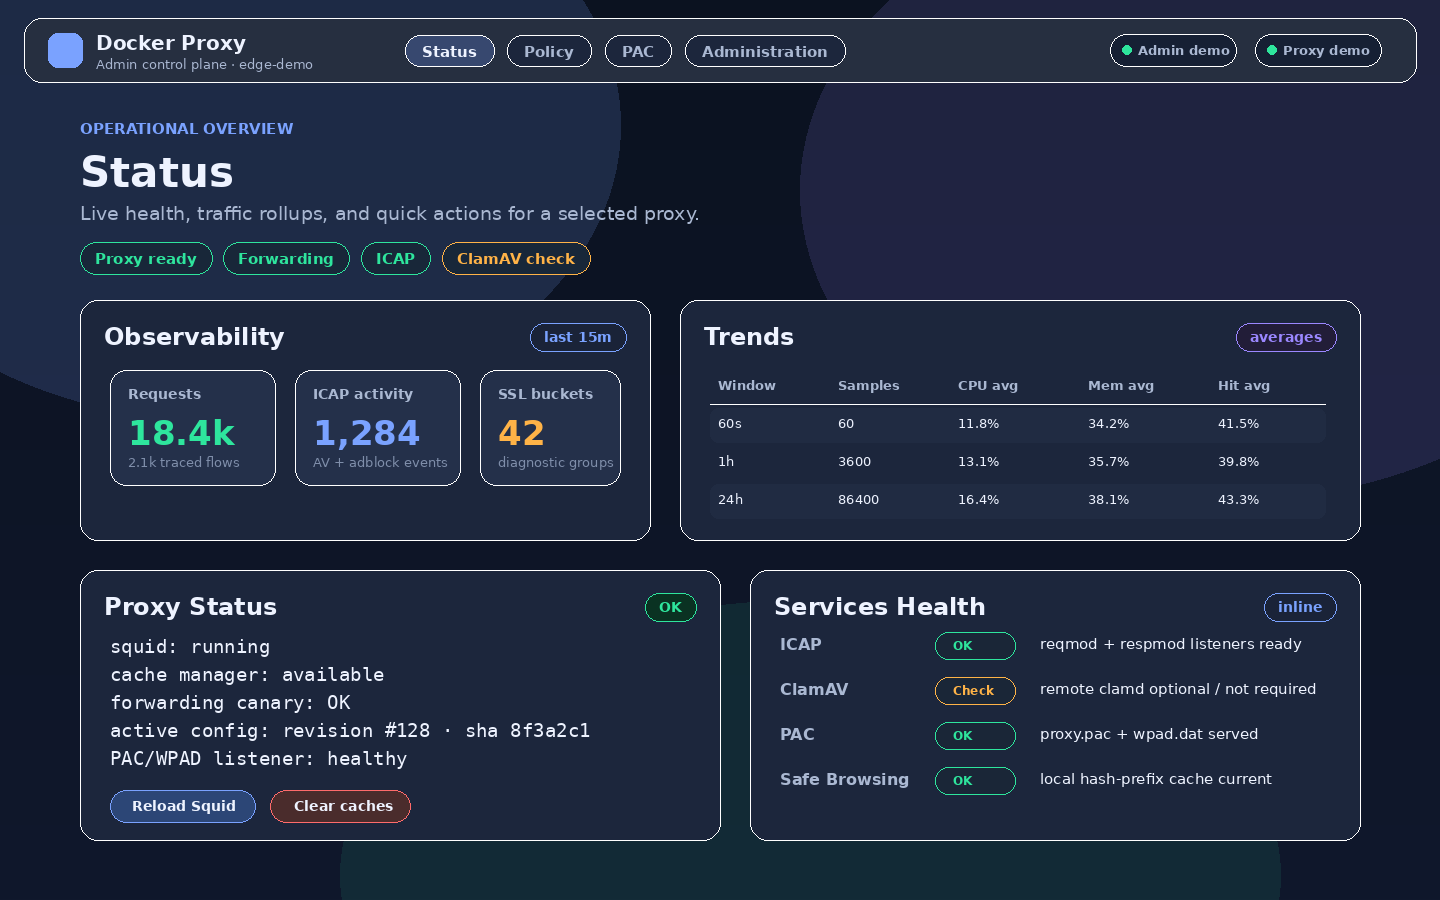
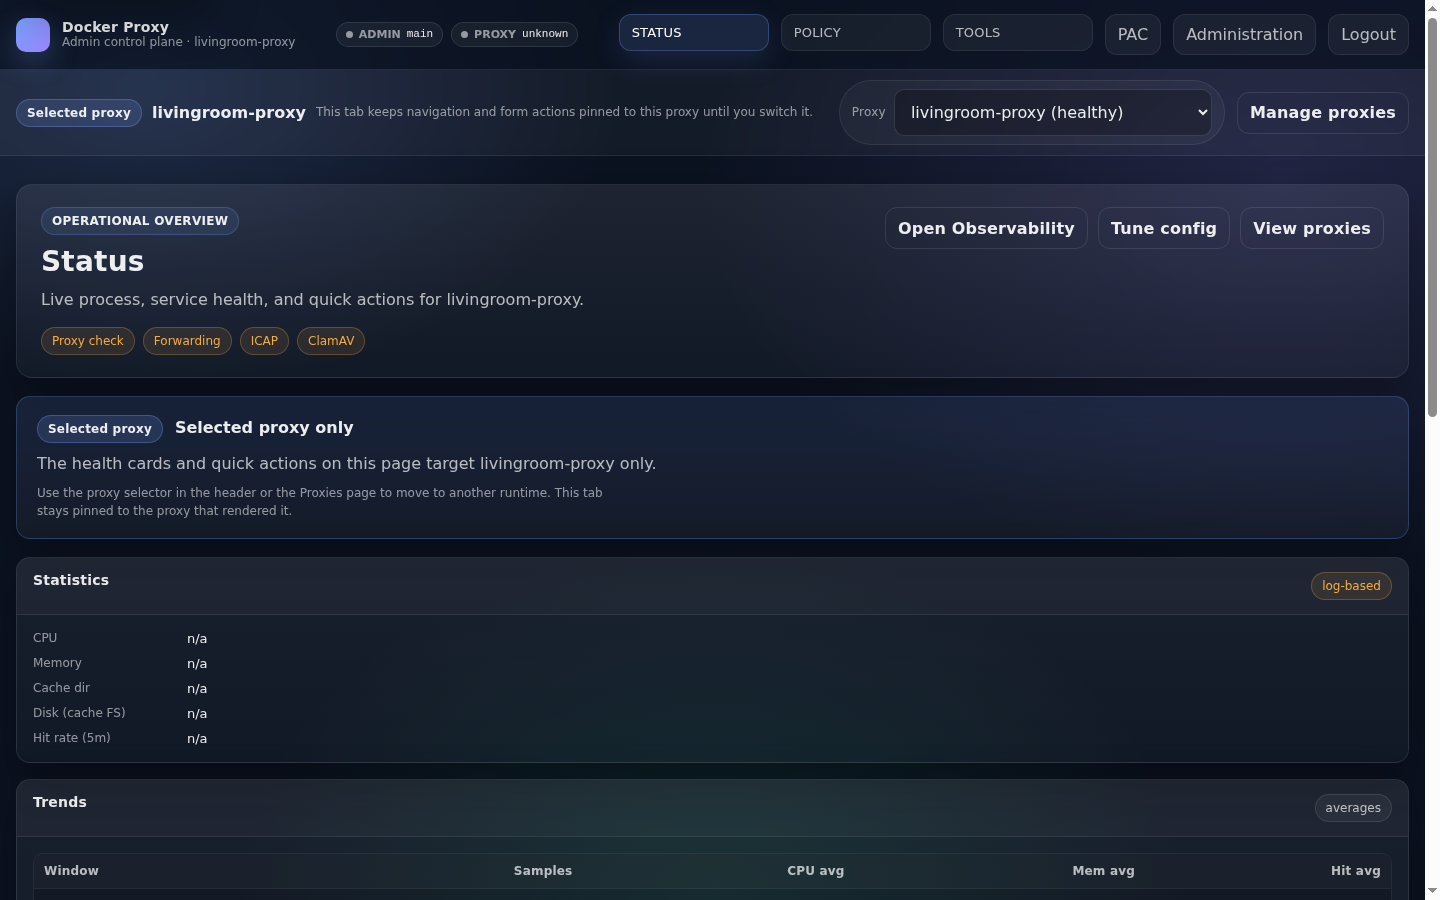
Replace launch media with live Admin UI captures

diff --git a/README.md b/README.md
@@ -20,15 +20,15 @@ Squid is powerful, but day-two operation usually becomes a mix of hand-edited co
 
 ## Admin UI preview
 
-The images below are deterministic public-safe demo renderings using generic sample data. They were produced from the repository's Admin UI visual language, not from a live deployment, so they contain no production hostnames, IP addresses, usernames, credentials, LDAP/SAML details, customer/device data, or telemetry.
+The screenshots and animated tour below were captured from an authorized live Docker Proxy deployment; no credentials, secrets, private keys, or tokens are shown.
 
 <p align="center">
-  <img src="docs/assets/admin-operator-workflow.gif" alt="Short Docker Proxy admin workflow demo: observe traffic, validate policy, track an operation, and verify status" width="720">
+  <img src="docs/assets/admin-operator-workflow.gif" alt="Short Docker Proxy Admin UI live workflow showing status, observability, ClamAV, ad blocking, proxy fleet, SSL filtering, and the operations ledger" width="720">
 </p>
 
-| Status and observability | Policy validation workflow | Fleet and operations |
+| Status and observability dashboard | SSL/cache policy workflow | Registered proxy fleet and operations |
 | --- | --- | --- |
-| ![Docker Proxy Admin UI status dashboard with sanitized demo observability and health cards](docs/assets/admin-dashboard.png) | ![Docker Proxy Admin UI policy workflow with sanitized demo Squid configuration controls and validation steps](docs/assets/admin-policy-workflow.png) | ![Docker Proxy Admin UI fleet operations screen with sanitized demo proxy inventory and operation ledger](docs/assets/admin-fleet-operations.png) |
+| ![Docker Proxy Admin UI live status and observability dashboard for a selected proxy runtime](docs/assets/admin-dashboard.png) | ![Docker Proxy Admin UI live SSL filtering and cache-bypass policy workflow with runtime apply evidence](docs/assets/admin-policy-workflow.png) | ![Docker Proxy Admin UI live registered proxy fleet and operations view with mixed proxy health](docs/assets/admin-fleet-operations.png) |
 
 ## 5-minute quick start with prebuilt images
 
